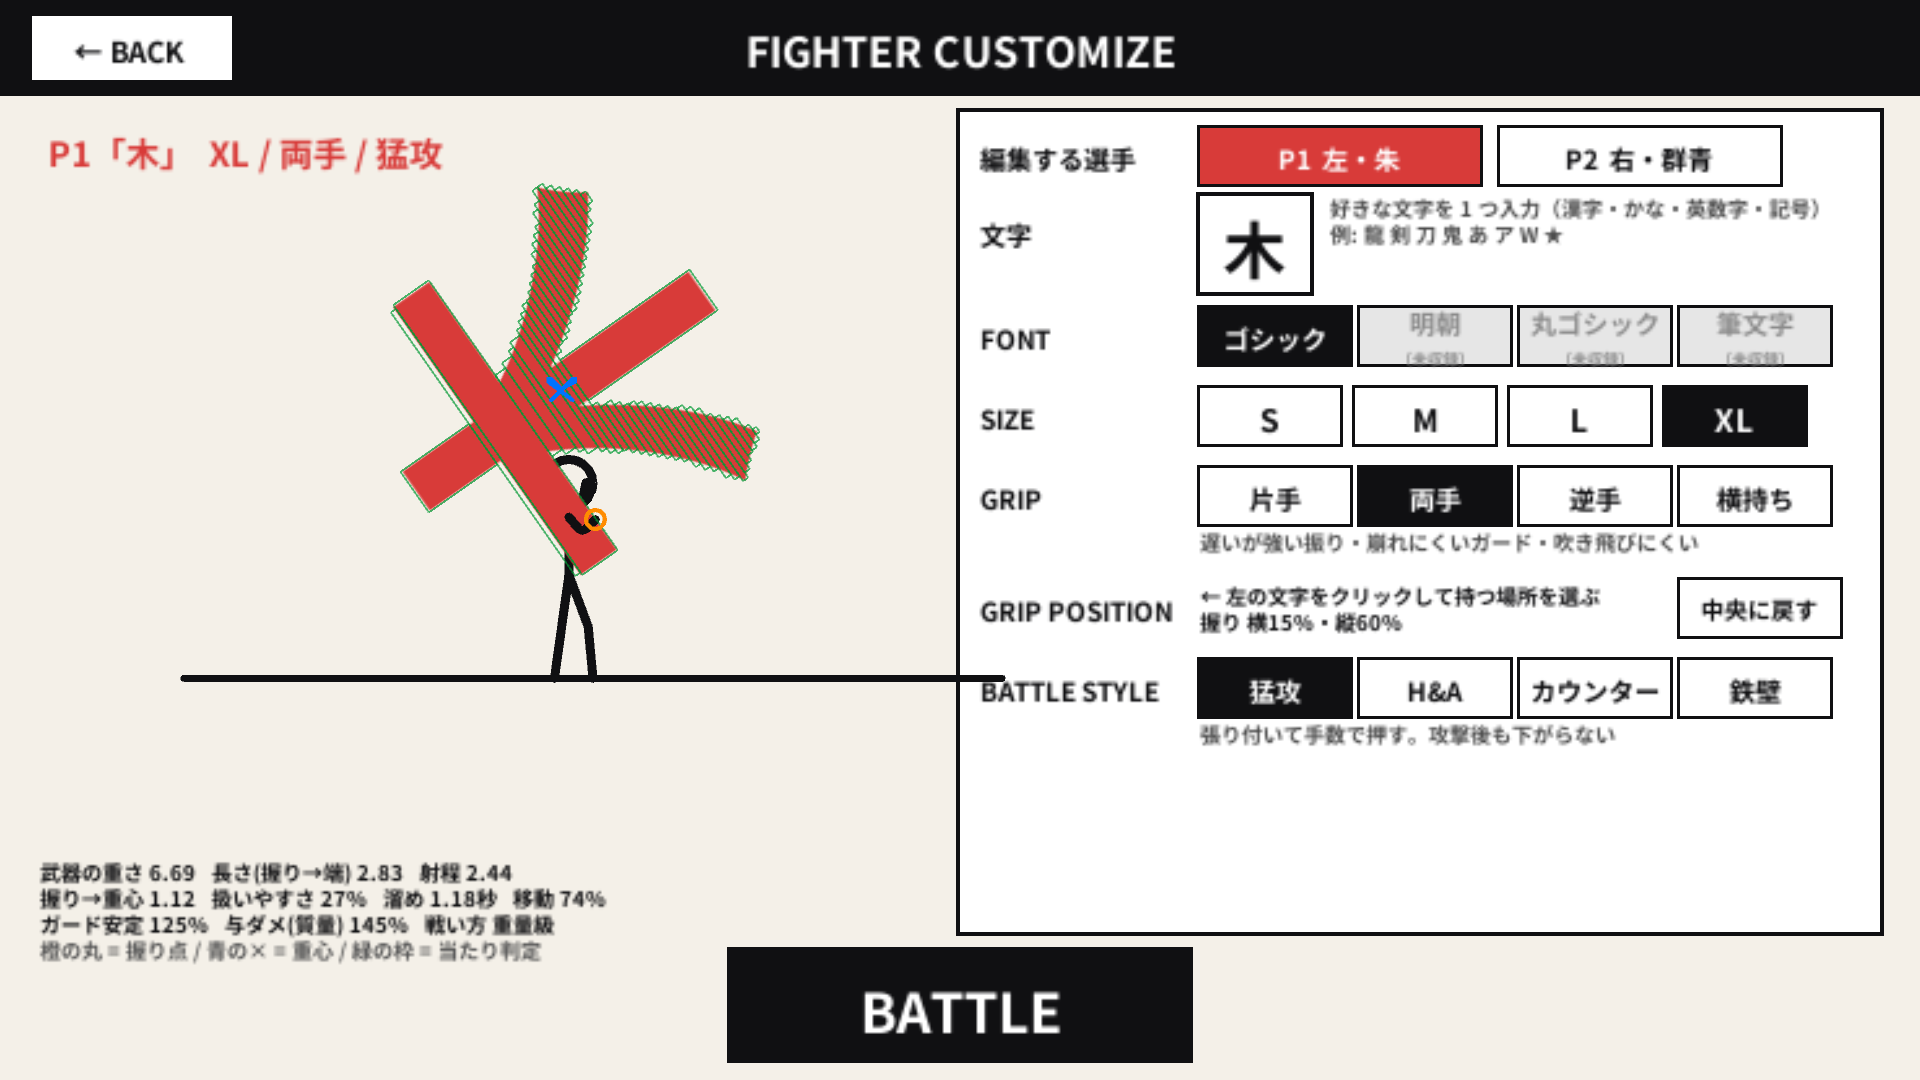
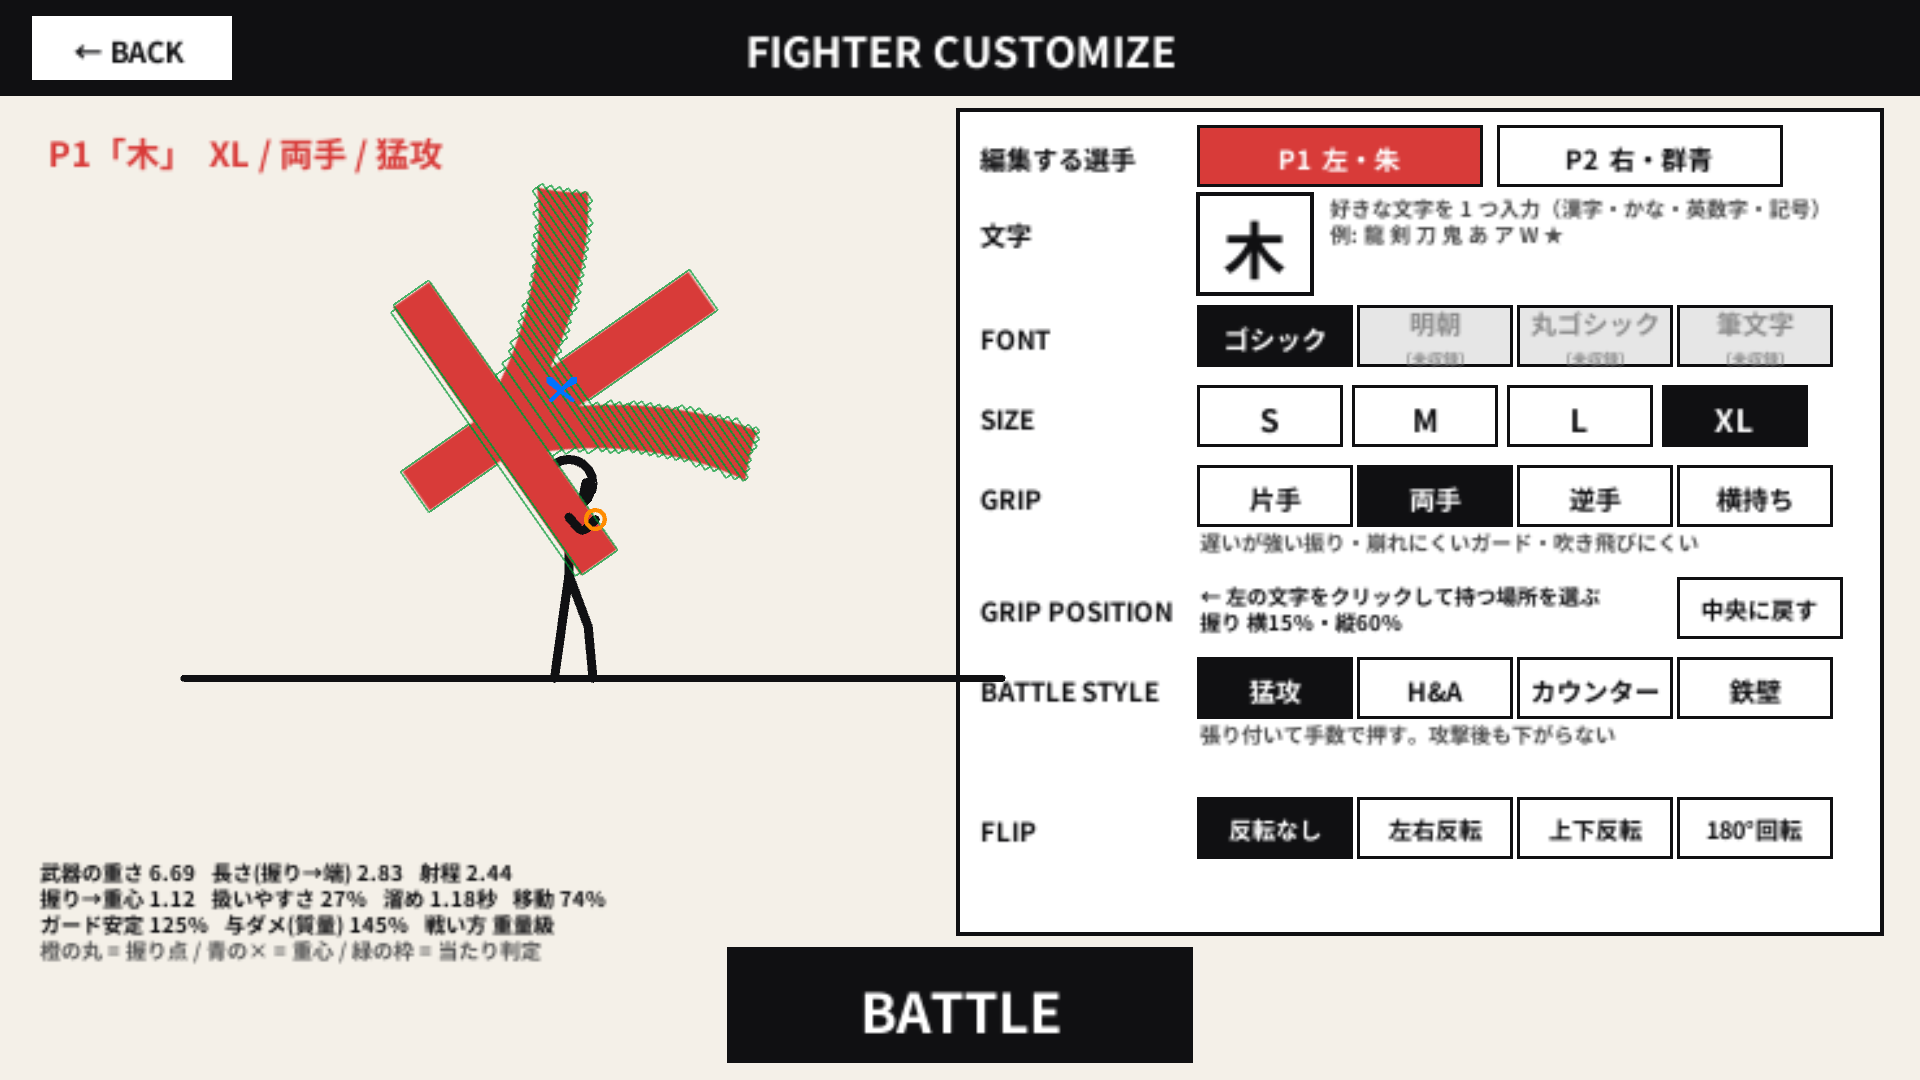
武器の字形を反転して持てるようにする（左右・上下・180°回転）
画像と重心・当たり判定・握り位置を同じ鏡映で写すので、形どおりに振り・当たりが変わる。ステータスは変わらない。

Changed region(s): [[0.625, 0.7333, 0.9375, 0.7944], [0.5, 0.7639, 0.5625, 0.7944]]

diff --git a/Assets/Scripts/UI/Customize/CustomizeScreen.cs b/Assets/Scripts/UI/Customize/CustomizeScreen.cs
@@ -20,6 +20,7 @@ namespace MojiBattle
         readonly List<(UguiKit.ChoiceButton b, WeaponSize s)> sizeButtons = new List<(UguiKit.ChoiceButton, WeaponSize)>();
         readonly List<(UguiKit.ChoiceButton b, GripType g)> gripButtons = new List<(UguiKit.ChoiceButton, GripType)>();
         readonly List<(UguiKit.ChoiceButton b, BattleStyle s)> styleButtons = new List<(UguiKit.ChoiceButton, BattleStyle)>();
+        readonly List<(UguiKit.ChoiceButton b, WeaponFlip f)> flipButtons = new List<(UguiKit.ChoiceButton, WeaponFlip)>();
         InputField charInput;
         Text charError, charHint, gripValue, styleNote, gripNote, info, previewTitle;
 
@@ -123,6 +124,15 @@ namespace MojiBattle
                 bx += 160f;
             }
             styleNote = UguiKit.Label(root, "StyleNote", "", PanelX + 220f, y + 62f, 660f, 60f, 22, NoteColor, TextAnchor.UpperLeft);
+            y += 140f;
+            Section(root, "FLIP", y);
+            float flx = PanelX + 220f;
+            foreach (WeaponFlip f in System.Enum.GetValues(typeof(WeaponFlip)))
+            {
+                var flip = f;
+                flipButtons.Add((UguiKit.Choice(root, "Flip_" + f, CustomizeLabels.Flip(f), flx, y, 150f, 56f, 24, () => customizer.SetFlip(flip)), f));
+                flx += 160f;
+            }
 
             // プレビューの説明（左下）
             info = UguiKit.Label(root, "Info", "", 40f, 860f, 680f, 140f, 22, null, TextAnchor.UpperLeft);
@@ -175,7 +185,7 @@ namespace MojiBattle
         }
 
         static string Summary(FighterBuildData b) =>
-            $"{GlyphCatalog.FontDisplayName(b.fontType)}\n{b.weaponSize} / {CustomizeLabels.Grip(b.gripType)} / 握り {Mathf.RoundToInt(b.gripPosition * 100f)}%\n{CustomizeLabels.Style(b.battleStyle)}";
+            $"{GlyphCatalog.FontDisplayName(b.fontType)}\n{b.weaponSize} / {CustomizeLabels.Grip(b.gripType)} / {CustomizeLabels.GripPlace(b)}\n{CustomizeLabels.Flip(b.weaponFlip)} / {CustomizeLabels.Style(b.battleStyle)}";
 
         void Refresh()
         {
@@ -195,13 +205,14 @@ namespace MojiBattle
             foreach (var (btn, s) in sizeButtons) btn.SetSelected(s == b.weaponSize);
             foreach (var (btn, g) in gripButtons) btn.SetSelected(g == b.gripType);
             foreach (var (btn, s) in styleButtons) btn.SetSelected(s == b.battleStyle);
+            foreach (var (btn, f) in flipButtons) btn.SetSelected(f == b.weaponFlip);
             gripValue.text = "← 左の文字をクリックして持つ場所を選ぶ\n" + CustomizeLabels.GripPlace(b);
             charError.text = customizer.CharacterError ?? "";
             gripNote.text = GripNote(b.gripType);
             styleNote.text = StyleNote(b.battleStyle);
             preview.Show(b, side);
             FitPreviewCamera();
-            previewTitle.text = $"{(side == 0 ? "P1" : "P2")}「{b.character}」  {b.weaponSize} / {CustomizeLabels.Grip(b.gripType)} / {CustomizeLabels.Style(b.battleStyle)}";
+            previewTitle.text = $"{(side == 0 ? "P1" : "P2")}「{b.character}」  {b.weaponSize} / {CustomizeLabels.Grip(b.gripType)}{(b.weaponFlip != WeaponFlip.None ? " / " + CustomizeLabels.Flip(b.weaponFlip) : "")} / {CustomizeLabels.Style(b.battleStyle)}";
             previewTitle.color = FighterFactory.TeamColor(side);
             info.text = preview.Describe() + "\n<color=#555555>橙の丸 = 握り点 / 青の× = 重心 / 緑の枠 = 当たり判定</color>";
             info.supportRichText = true;

diff --git a/Assets/Scripts/Glyphs/GlyphFlip.cs b/Assets/Scripts/Glyphs/GlyphFlip.cs
@@ -1,0 +1,69 @@
+using System.Collections.Generic;
+using UnityEngine;
+
+namespace MojiBattle
+{
+    /// <summary>武器として持つ字形の反転（カスタマイズ）。</summary>
+    public enum WeaponFlip { None, Horizontal, Vertical, Both }
+
+    /// <summary>
+    /// 字形を左右・上下に反転した字形を作る。画像と解析結果（重心・Collider・外接矩形・既定の握り）を同じ鏡映で写すので、
+    /// 表示・当たり判定・握る位置・重心がすべて反転後の形に従う。ステータス（黒画素量・幅・高さ・輪郭・左右バランス）は鏡映で変わらない。
+    /// </summary>
+    public static class GlyphFlip
+    {
+        static readonly Dictionary<(GlyphDefinitionRuntime, WeaponFlip), GlyphDefinitionRuntime> cache =
+            new Dictionary<(GlyphDefinitionRuntime, WeaponFlip), GlyphDefinitionRuntime>();
+
+        public static GlyphDefinitionRuntime Apply(GlyphDefinitionRuntime src, WeaponFlip flip)
+        {
+            if (src == null || flip == WeaponFlip.None) return src;
+            if (cache.TryGetValue((src, flip), out var hit)) return hit;
+            bool h = flip == WeaponFlip.Horizontal || flip == WeaponFlip.Both;
+            bool v = flip == WeaponFlip.Vertical || flip == WeaponFlip.Both;
+            var tex = src.texture;
+            int w = tex.width, ht = tex.height;
+            var px = tex.GetPixels32();
+            var outPx = new Color32[px.Length];
+            for (int y = 0; y < ht; y++)
+            for (int x = 0; x < w; x++)
+                outPx[(v ? ht - 1 - y : y) * w + (h ? w - 1 - x : x)] = px[y * w + x];
+            var flipped = new Texture2D(w, ht, TextureFormat.RGBA32, false, true)
+            {
+                name = tex.name + "_" + flip,
+                filterMode = tex.filterMode,
+                wrapMode = TextureWrapMode.Clamp,
+            };
+            flipped.SetPixels32(outPx);
+            flipped.Apply(false, false); // 握り位置の探索で画素を読むため読み取り可能のまま
+
+            var f = src.features;
+            Vector2 P(Vector2 p) => new Vector2(h ? w - p.x : p.x, v ? ht - p.y : p.y);
+            f.centerOfMass = P(f.centerOfMass);
+            f.gripPoint = P(f.gripPoint);
+            var b = f.inkBounds;
+            f.inkBounds = new RectInt(h ? w - b.xMax : b.xMin, v ? ht - b.yMax : b.yMin, b.width, b.height);
+            var rects = new Rect[f.colliderRects.Length];
+            for (int i = 0; i < rects.Length; i++)
+            {
+                var r = f.colliderRects[i];
+                rects[i] = new Rect(h ? w - r.xMax : r.xMin, v ? ht - r.yMax : r.yMin, r.width, r.height);
+            }
+            f.colliderRects = rects;
+
+            var def = new GlyphDefinitionRuntime
+            {
+                grapheme = src.grapheme,
+                font = src.font,
+                texture = flipped,
+                features = f,
+                normalized = src.normalized,
+                runtimeBaked = src.runtimeBaked,
+            };
+            cache[(src, flip)] = def;
+            return def;
+        }
+
+        public static void ClearCache() => cache.Clear();
+    }
+}

diff --git a/Assets/Tests/EditMode/GlyphAndStatsTests.cs b/Assets/Tests/EditMode/GlyphAndStatsTests.cs
@@ -20,6 +20,41 @@ namespace MojiBattle.Tests
 
         static IEnumerable<string> Nine => InitialNine.Select(c => c.ToString());
 
+        /// <summary>反転: 画像・重心・Collider・握りが同じ鏡映で写り、ステータスは変わらない。2 回反転すると元に戻る。</summary>
+        [TestCase(WeaponFlip.Horizontal)]
+        [TestCase(WeaponFlip.Vertical)]
+        [TestCase(WeaponFlip.Both)]
+        public void Flip_MirrorsShapeAndKeepsStats(WeaponFlip flip)
+        {
+            var src = Load("火");
+            var f = GlyphFlip.Apply(src, flip);
+            Assert.AreNotSame(src, f);
+            Assert.AreSame(f, GlyphFlip.Apply(src, flip), "同じ反転はキャッシュを返す");
+            Assert.AreSame(src, GlyphFlip.Apply(src, WeaponFlip.None));
+            bool h = flip != WeaponFlip.Vertical, v = flip != WeaponFlip.Horizontal;
+            int w = src.texture.width, ht = src.texture.height;
+            var a = src.features;
+            var b = f.features;
+            Assert.AreEqual(h ? w - a.centerOfMass.x : a.centerOfMass.x, b.centerOfMass.x, 1e-3f);
+            Assert.AreEqual(v ? ht - a.centerOfMass.y : a.centerOfMass.y, b.centerOfMass.y, 1e-3f);
+            Assert.AreEqual(a.colliderRects.Length, b.colliderRects.Length);
+            Assert.AreEqual(a.inkBounds.size, b.inkBounds.size);
+            // 反転した画像のインクは、反転後の外接矩形の中にある
+            var px = f.texture.GetPixels32();
+            for (int y = 0; y < ht; y++)
+            for (int x = 0; x < w; x++)
+                if (px[y * w + x].a >= 128) Assert.IsTrue(b.inkBounds.Contains(new Vector2Int(x, y)), $"({x},{y}) が外接矩形の外");
+            // 握り点はインクの上
+            int gx = Mathf.FloorToInt(b.gripPoint.x), gy = Mathf.FloorToInt(b.gripPoint.y);
+            Assert.GreaterOrEqual(px[gy * w + gx].a, 128, "握りが画線の上にない");
+            var sa = StatCalculator.Compute(src, B);
+            var sb = StatCalculator.Compute(f, B);
+            Assert.AreEqual(sa.ToString(), sb.ToString(), "反転でステータスは変わらない");
+            var back = GlyphFlip.Apply(f, flip).features;
+            Assert.AreEqual(a.centerOfMass.x, back.centerOfMass.x, 1e-3f);
+            Assert.AreEqual(a.inkBounds, back.inkBounds);
+        }
+
         [Test]
         public void InitialNineAreBakedForGothic()
         {

diff --git a/Assets/Tests/PlayMode/CustomizePlayModeTests.cs b/Assets/Tests/PlayMode/CustomizePlayModeTests.cs
@@ -263,6 +263,37 @@ namespace MojiBattle.Tests
             }
         }
 
+        /// <summary>反転して持った武器: 字形・重心が反転し、試合が最後まで成立する。</summary>
+        [UnityTest]
+        [Timeout(600000)]
+        public IEnumerator FlippedWeapons_FightToTheEnd()
+        {
+            SimHarness.Begin(false);
+            var pairs = new[] { ("火", WeaponFlip.Horizontal, "山", WeaponFlip.Vertical), ("龍", WeaponFlip.Both, "鬼", WeaponFlip.None) };
+            int seed = 9200;
+            foreach (var (l, lf, r, rf) in pairs)
+            {
+                var lb = SimHarness.Custom(l);
+                lb.build.weaponFlip = lf;
+                var rb = SimHarness.Custom(r, style: BattleStyle.Defensive);
+                rb.build.weaponFlip = rf;
+                var battle = SimHarness.Build(seed++, lb, rb);
+                GlyphCatalog.TryGet(l, FontStyleId.Gothic, CombatBalance.Default, GlyphCalibration.Default, out var plain, out _);
+                var flipped = battle.Left.Glyph;
+                Assert.AreNotSame(plain, flipped, $"{l}: 反転した字形を使っていない");
+                int w = plain.texture.width;
+                if (lf != WeaponFlip.Vertical)
+                    Assert.AreEqual(w - plain.features.centerOfMass.x, flipped.features.centerOfMass.x, 1e-3f, $"{l}: 重心が左右反転していない");
+                yield return SimHarness.RunToEnd(battle, 10f);
+                Assert.IsTrue(battle.Director.Ended, $"{l} vs {r}: 試合が終わらない");
+                var t = battle.Director.Telemetry;
+                Assert.Greater(t.fighters[0].attackStarts + t.fighters[1].attackStarts, 5, $"{l} vs {r}: ほとんど攻撃しない");
+                Assert.AreEqual(0, t.duplicateBodyHits);
+                battle.Destroy();
+                yield return null;
+            }
+        }
+
         /// <summary>診断用: カスタマイズ構成 1 試合の詳細ログ（Reports/trace_custom.txt）。</summary>
         [UnityTest, Explicit("診断用")]
         public IEnumerator TraceCustom()

diff --git a/Assets/Scripts/Customize/FighterBuildData.cs b/Assets/Scripts/Customize/FighterBuildData.cs
@@ -25,6 +25,8 @@ namespace MojiBattle
         [Tooltip("握る場所。字形の外接矩形内の正規化座標（x: 左0→右1、y: 下0→上1）")]
         public Vector2 gripPoint = new Vector2(0.5f, 0.5f);
         public BattleStyle battleStyle = BattleStyle.Aggressive;
+        [Tooltip("字形を反転して持つ（なし / 左右 / 上下 / 両方 = 180°回転）。握る場所は反転後の字形で選ぶ")]
+        public WeaponFlip weaponFlip = WeaponFlip.None;
 
         public static FighterBuildData Default(string character) => new FighterBuildData { character = character };
 
@@ -33,7 +35,7 @@ namespace MojiBattle
         public FighterLoadout ToLoadout() => new FighterLoadout(character, fontType) { build = Clone() };
 
         public override string ToString() =>
-            $"{character} {CustomizeLabels.Size(weaponSize)} / {CustomizeLabels.Grip(gripType)} / {CustomizeLabels.GripPlace(this)} / {CustomizeLabels.Style(battleStyle)}";
+            $"{character} {CustomizeLabels.Size(weaponSize)} / {CustomizeLabels.Grip(gripType)} / {CustomizeLabels.GripPlace(this)} / {CustomizeLabels.Flip(weaponFlip)} / {CustomizeLabels.Style(battleStyle)}";
     }
 
     /// <summary>UI 表示名。</summary>
@@ -54,6 +56,17 @@ namespace MojiBattle
                 case GripType.Reverse: return "逆手";
                 case GripType.Horizontal: return "横持ち";
                 default: return "片手";
+            }
+        }
+
+        public static string Flip(WeaponFlip f)
+        {
+            switch (f)
+            {
+                case WeaponFlip.Horizontal: return "左右反転";
+                case WeaponFlip.Vertical: return "上下反転";
+                case WeaponFlip.Both: return "180°回転";
+                default: return "反転なし";
             }
         }
 

diff --git a/Assets/Scripts/Core/BattleBuilder.cs b/Assets/Scripts/Core/BattleBuilder.cs
@@ -32,6 +32,8 @@ namespace MojiBattle
             { error = "左: " + reasonL; return null; }
             if (!GlyphCatalog.TryGet(config.right.grapheme, config.right.font, balance, calibration, out var gr, out var reasonR))
             { error = "右: " + reasonR; return null; }
+            gl = GlyphFlip.Apply(gl, config.left.build?.weaponFlip ?? WeaponFlip.None);
+            gr = GlyphFlip.Apply(gr, config.right.build?.weaponFlip ?? WeaponFlip.None);
 
             Time.fixedDeltaTime = TimeController.BaseFixedDelta;
             // 重い武器とヒンジの伸びを抑えるため反復回数を増やす

diff --git a/Assets/Scripts/UI/Customize/FighterPreviewController.cs b/Assets/Scripts/UI/Customize/FighterPreviewController.cs
@@ -67,6 +67,7 @@ namespace MojiBattle
             Build = build.Clone();
             Side = side;
             if (!GlyphCatalog.TryGet(build.character, build.fontType, B, GlyphCalibration.Default, out glyph, out _)) return;
+            glyph = GlyphFlip.Apply(glyph, build.weaponFlip);
             var stats = StatCalculator.Compute(glyph, B);
             Stats = stats;
             Geometry = FighterFactory.ResolveWeapon(Build, glyph, stats, B, CB, out float mass);

diff --git a/Assets/Tests/PlayMode/CustomizeScreenshots.cs b/Assets/Tests/PlayMode/CustomizeScreenshots.cs
@@ -163,6 +163,9 @@ namespace MojiBattle.Tests
             c.SetStyle(BattleStyle.Defensive);
             for (int i = 0; i < 30; i++) yield return null;
             Capture("23_customize_p2_horizontal");
+            c.SetFlip(WeaponFlip.Vertical);
+            for (int i = 0; i < 30; i++) yield return null;
+            Capture("35_customize_flip_vertical");
             screen.ShowVs();
             yield return null;
             Capture("24_vs");

diff --git a/Assets/Scripts/Customize/FighterCustomizer.cs b/Assets/Scripts/Customize/FighterCustomizer.cs
@@ -81,6 +81,7 @@ namespace MojiBattle
         /// <summary>握る場所を中央（長軸の中央）に戻す。</summary>
         public void ResetGrip() => SetGripPosition(0.5f);
         public void SetStyle(BattleStyle s) { Current.battleStyle = s; Commit(); }
+        public void SetFlip(WeaponFlip f) { Current.weaponFlip = f; Commit(); }
 
         void Commit()
         {

diff --git a/Assets/Scripts/Glyphs/GlyphCatalog.cs b/Assets/Scripts/Glyphs/GlyphCatalog.cs
@@ -113,6 +113,7 @@ namespace MojiBattle
 
         public static void ClearCache()
         {
+            GlyphFlip.ClearCache();
             cache.Clear();
             failed.Clear();
         }
